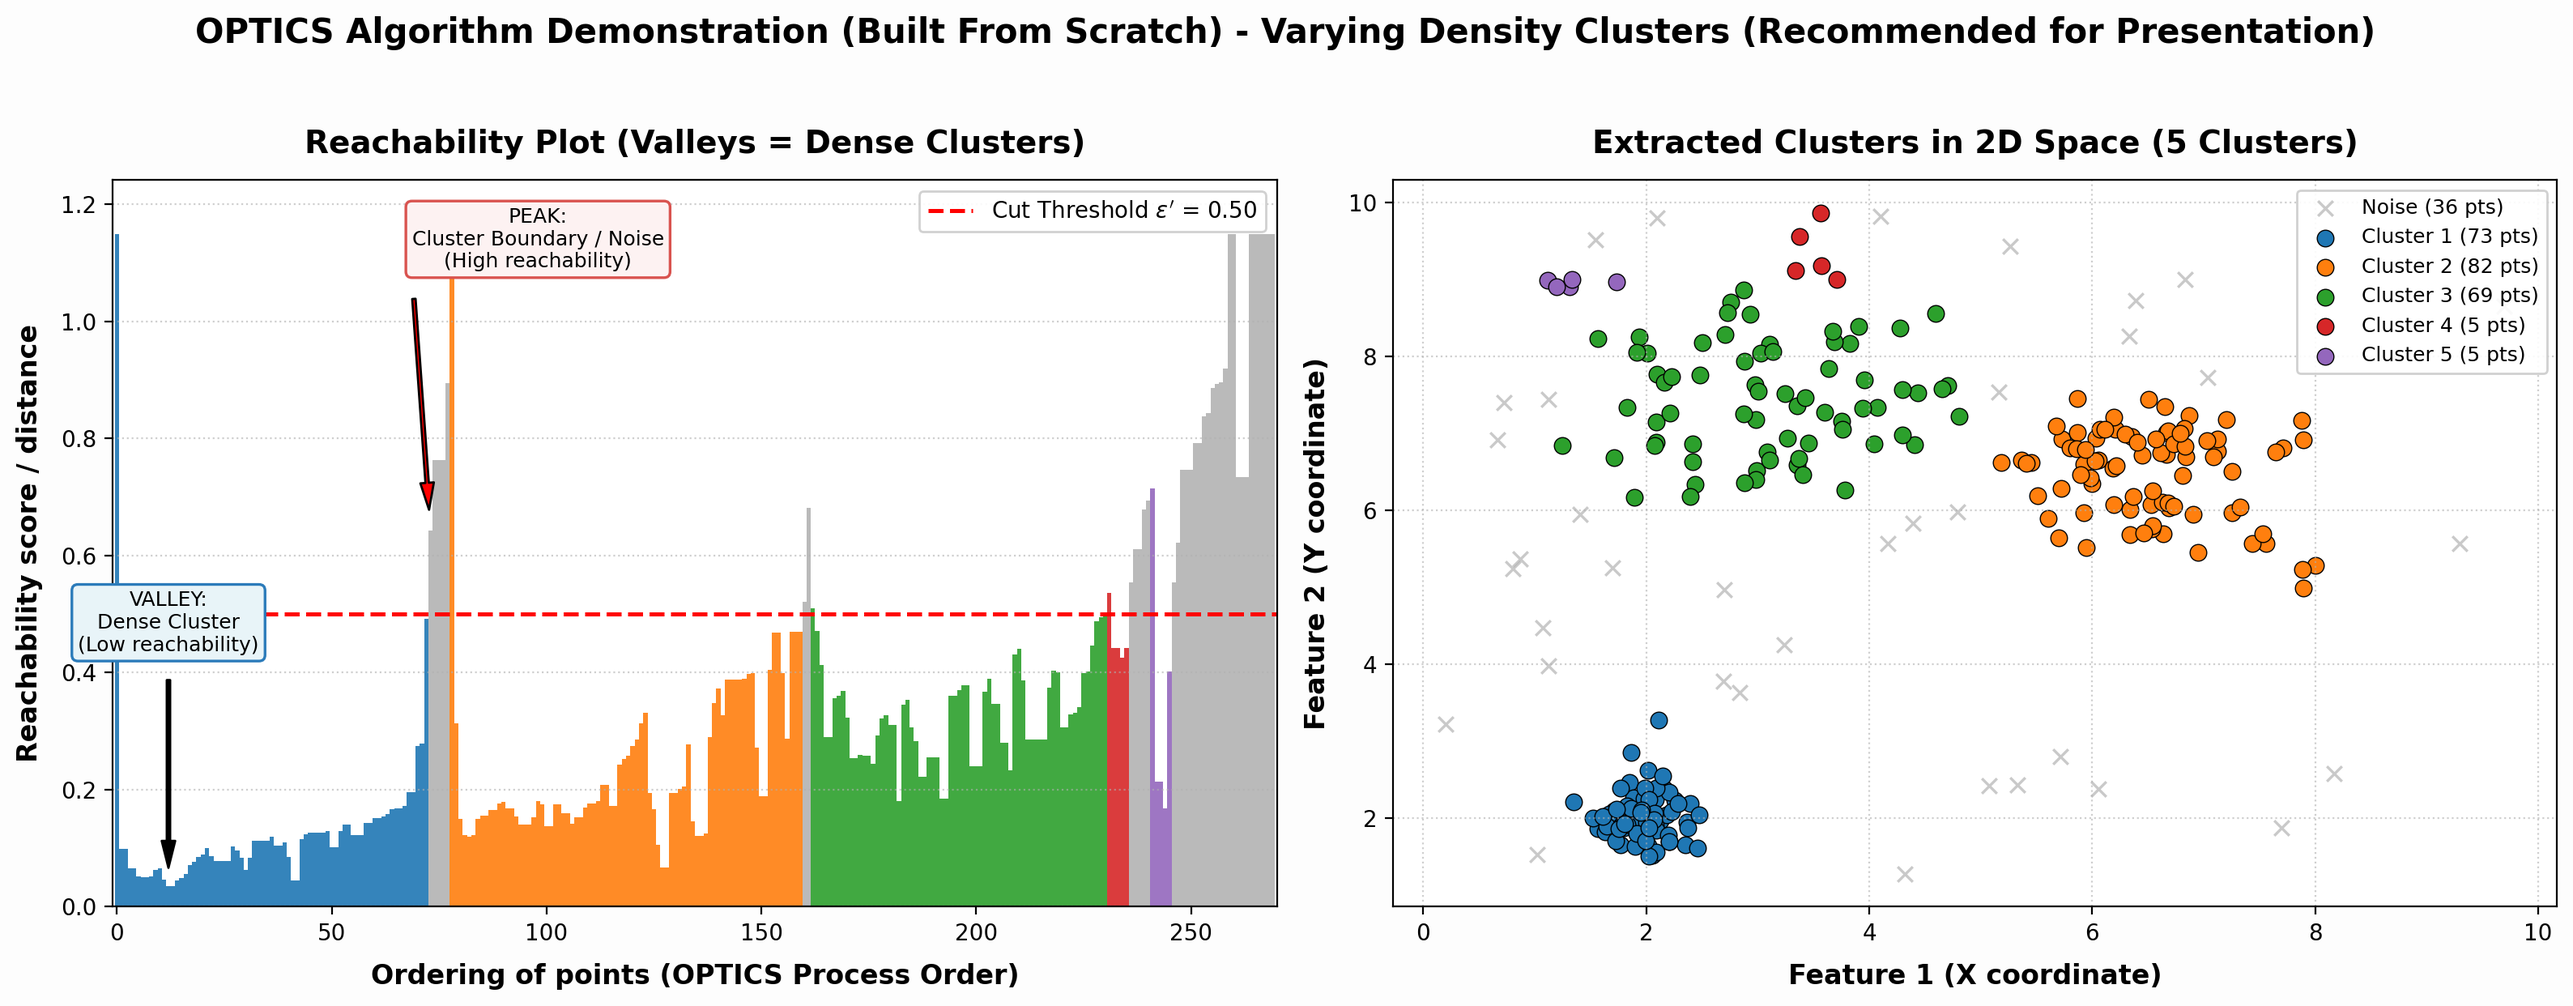
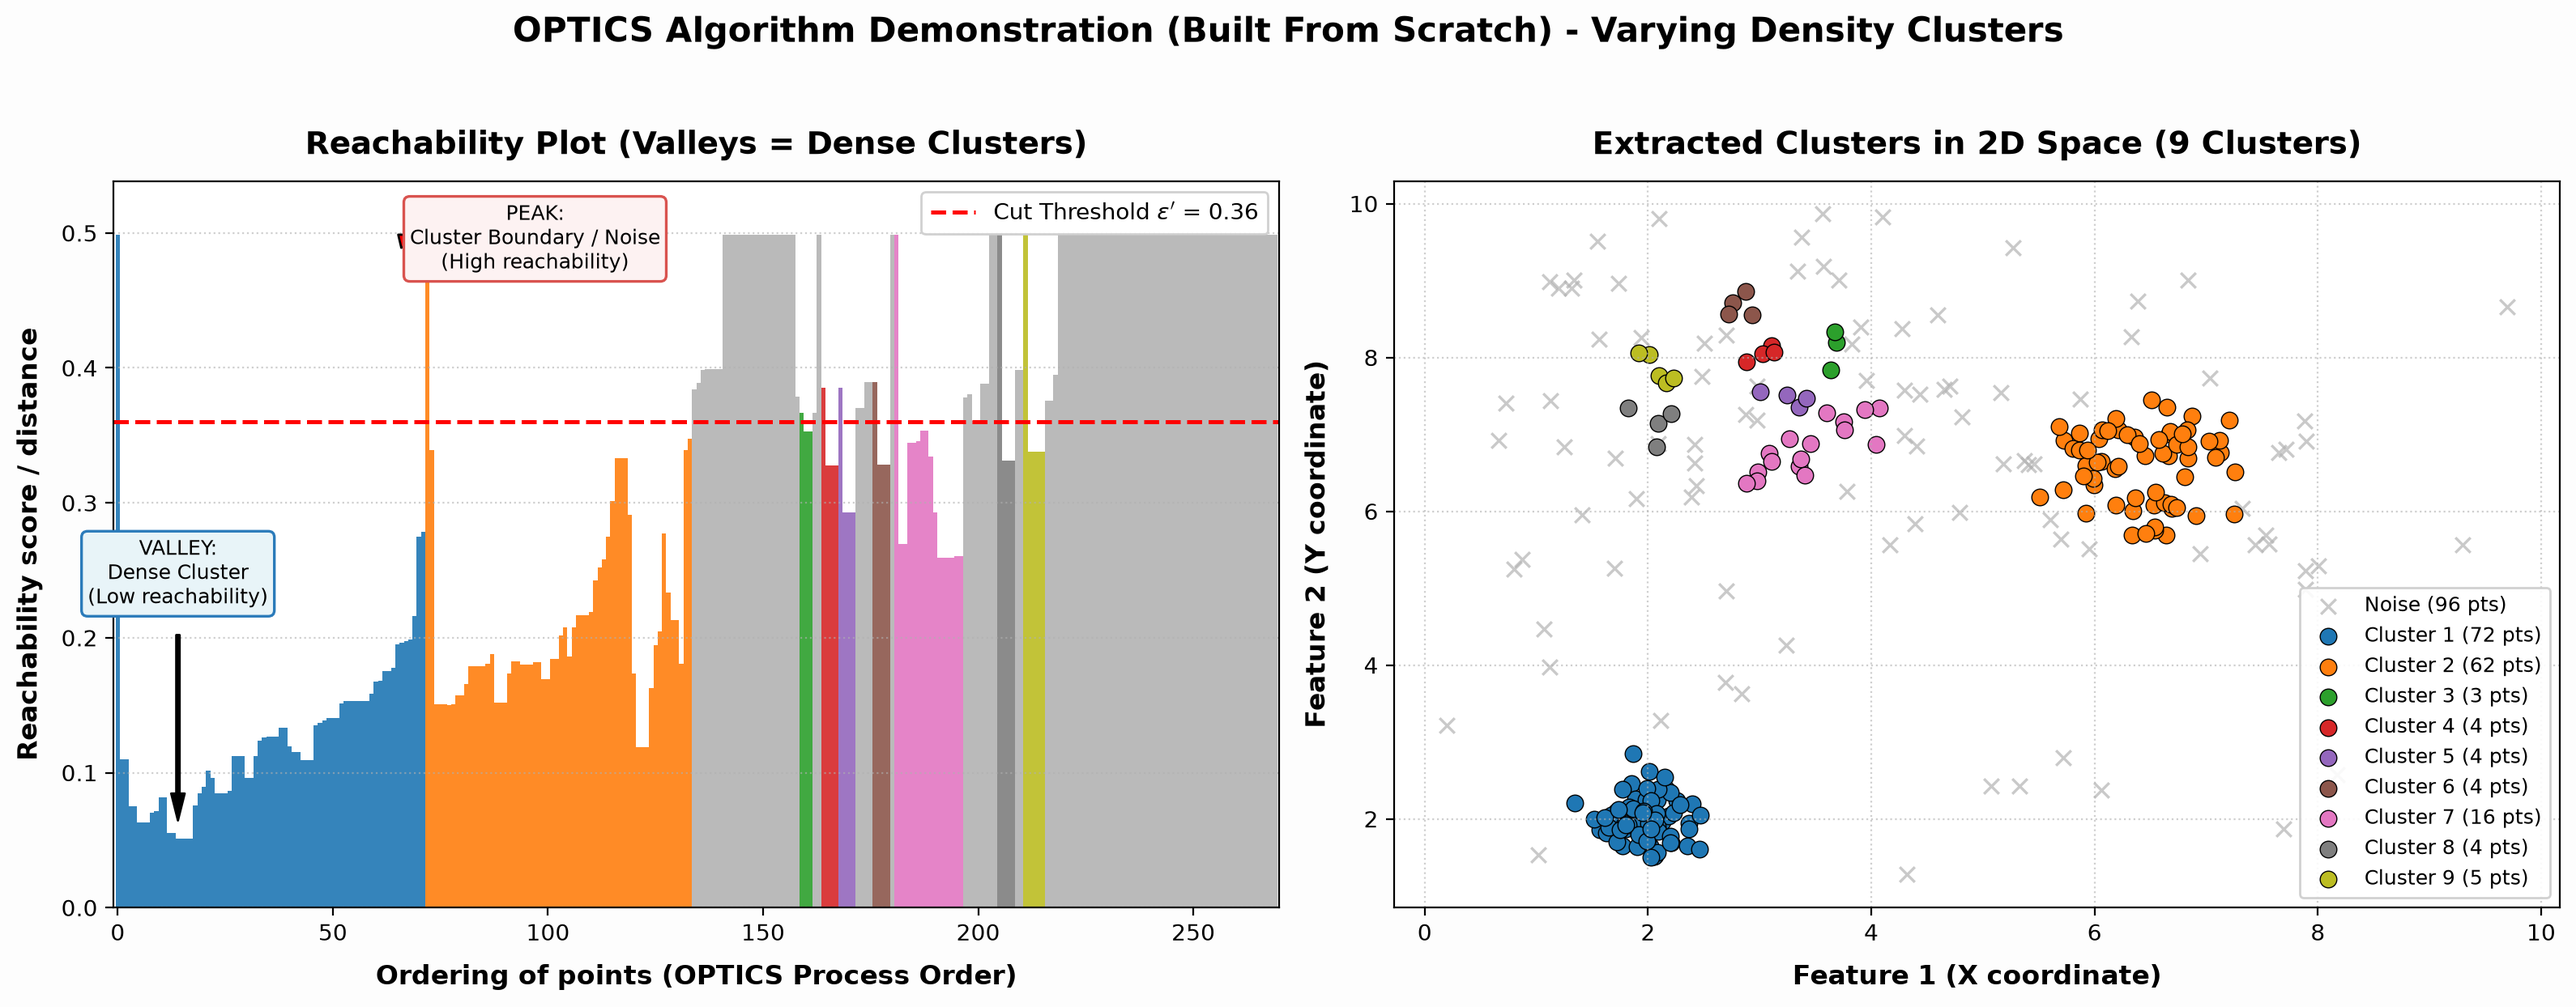
Iris Dataset added

diff --git a/datasets.py b/datasets.py
@@ -187,15 +187,15 @@ def load_csv_dataset(filepath):
     Supports CSV with or without headers.
     """
     try:
-        # Load raw file skipping header lines if text is detected
-        data = np.genfromtxt(filepath, delimiter=',', comments='#')
-        # Drop NaN rows if header was skipped
+        # Read only the first two numeric columns; later columns may contain labels.
+        data = np.genfromtxt(filepath, delimiter=',', usecols=(0, 1), comments='#')
+        data = np.atleast_2d(data)
+        # A text header becomes a NaN row, while headerless files remain unchanged.
         data = data[~np.isnan(data).any(axis=1)]
-        
-        if data.shape[1] < 2:
-            raise ValueError("CSV must contain at least 2 numeric columns for 2D plotting.")
-            
-        data = data[:, :2] # Use first two columns
+
+        if data.shape[0] == 0:
+            raise ValueError("CSV does not contain numeric data in its first two columns.")
+
         description = f"Custom CSV Dataset loaded from '{filepath}' ({len(data)} points)."
         suggested_params = {"eps": 1.5, "min_pts": 5, "eps_prime": 0.8}
         return data, description, suggested_params

diff --git a/main.py b/main.py
@@ -223,7 +223,7 @@ def plot_optics_presentation(data, ordered_list, reachability, labels, eps_prime
     n_clusters = len(cluster_ids)
     
     # Generate distinct vibrant colors for clusters
-    cmap = plt.cm.get_cmap('tab10', max(10, n_clusters))
+    cmap = plt.get_cmap('tab10', max(10, n_clusters))
     cluster_colors = {}
     for i, c_id in enumerate(cluster_ids):
         cluster_colors[c_id] = cmap(i % 10)
@@ -411,7 +411,7 @@ def main():
         data, description, suggested = selected['generator']()
         dataset_name = selected['name']
     elif choice == "6":
-        filepath = input("Enter path to your CSV file: ").strip()
+        filepath = input("Enter path to your CSV file: ").strip().strip('"').strip("'")
         try:
             data, description, suggested = datasets.load_csv_dataset(filepath)
             dataset_name = f"Custom CSV: {filepath}"
